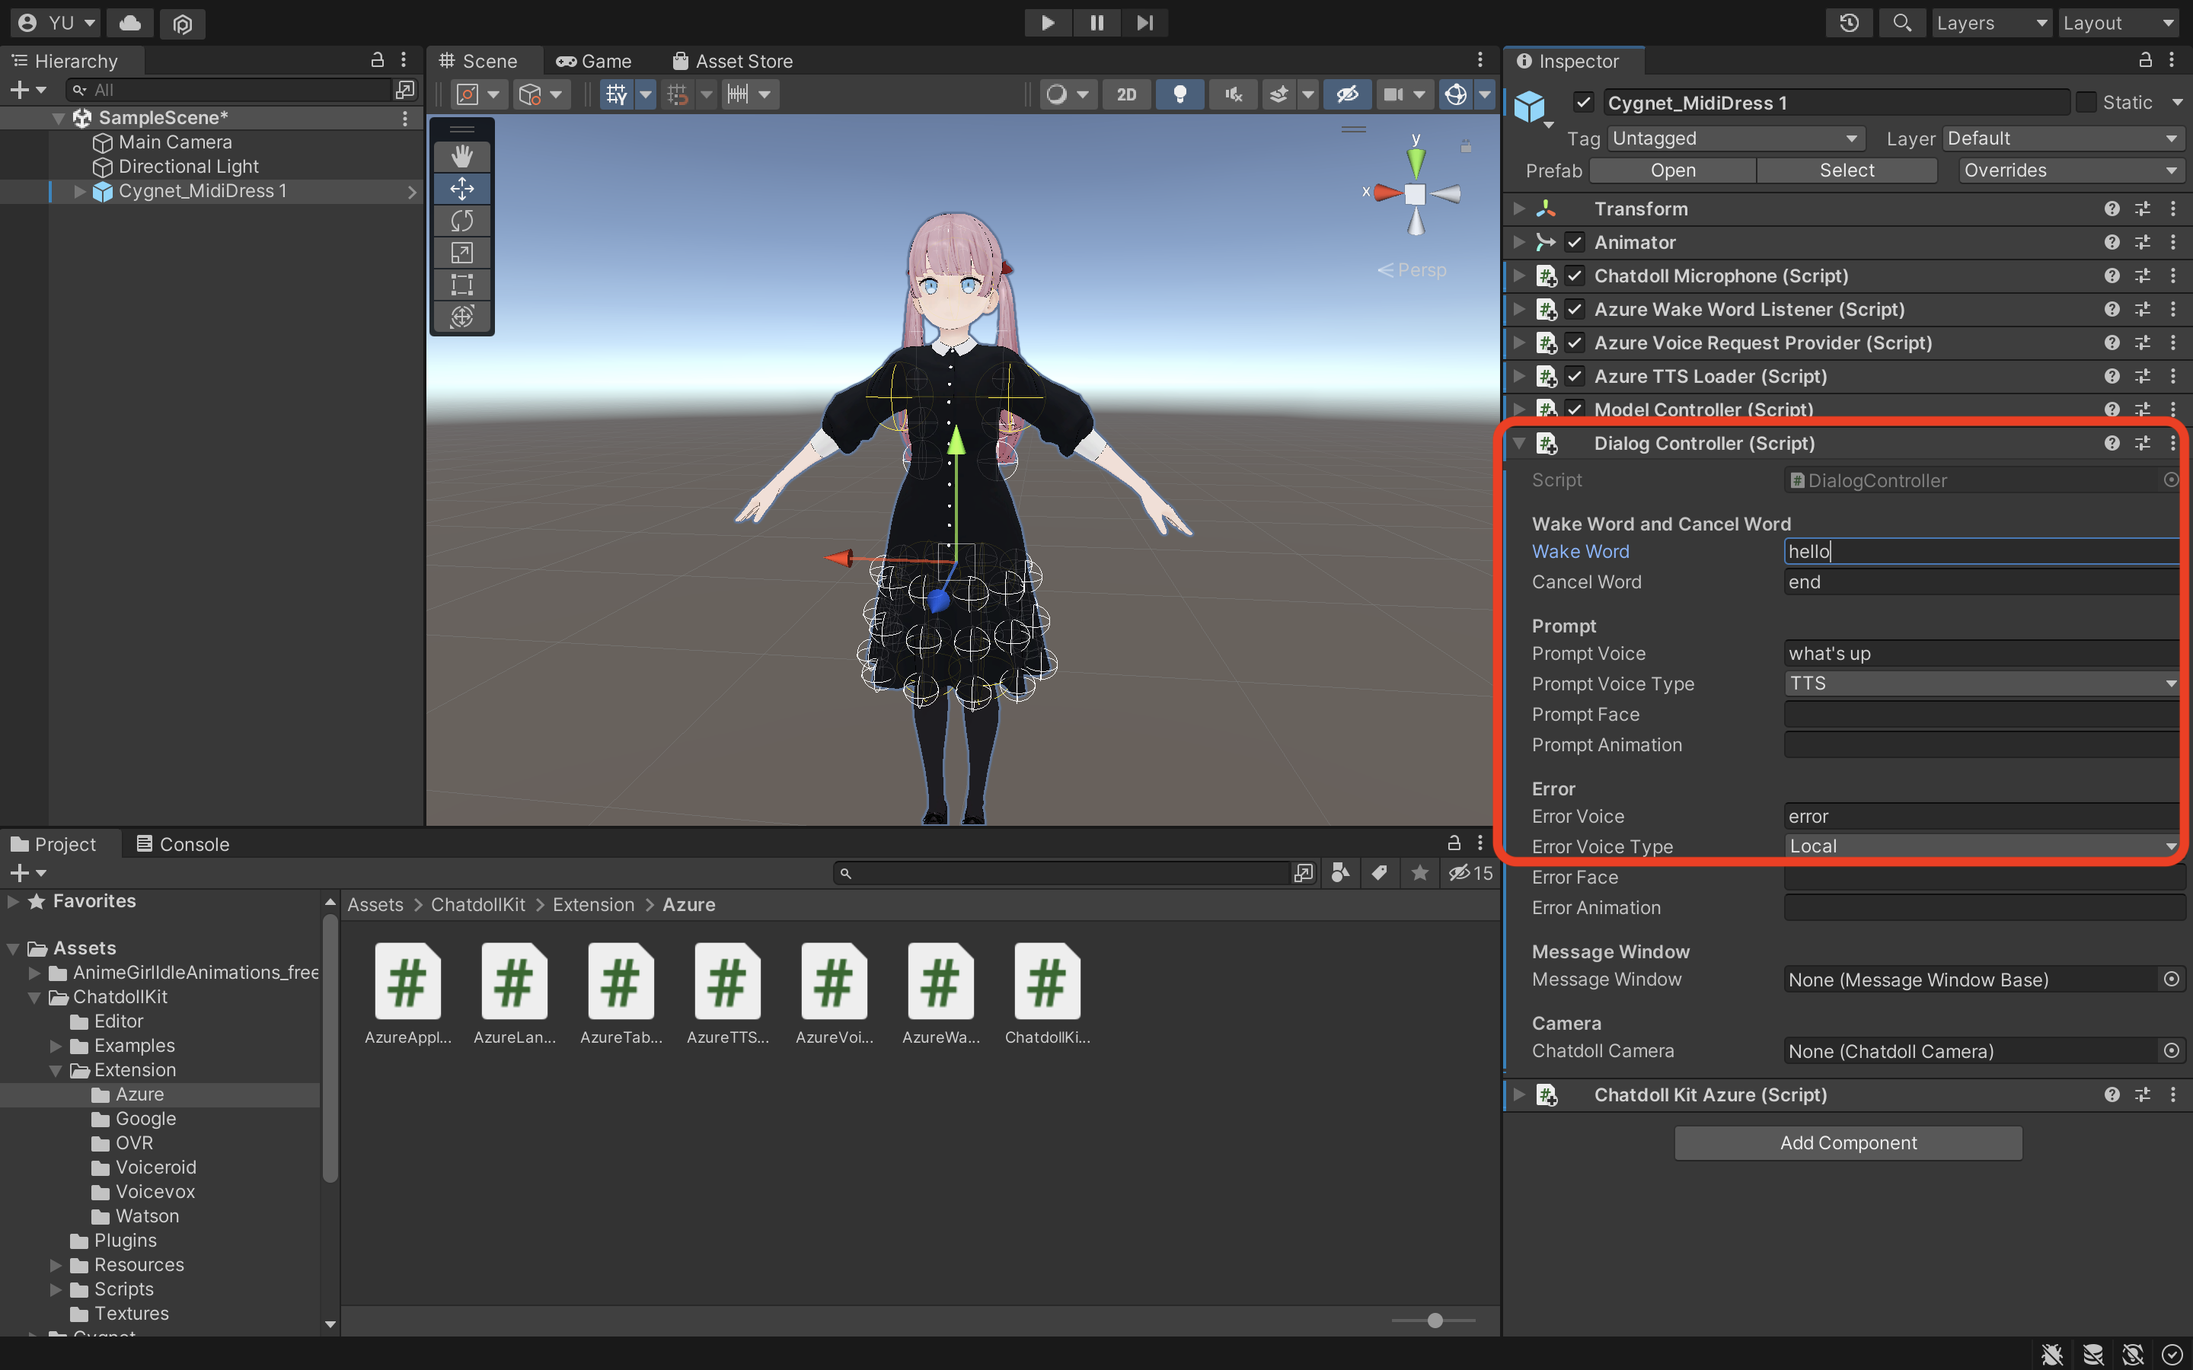
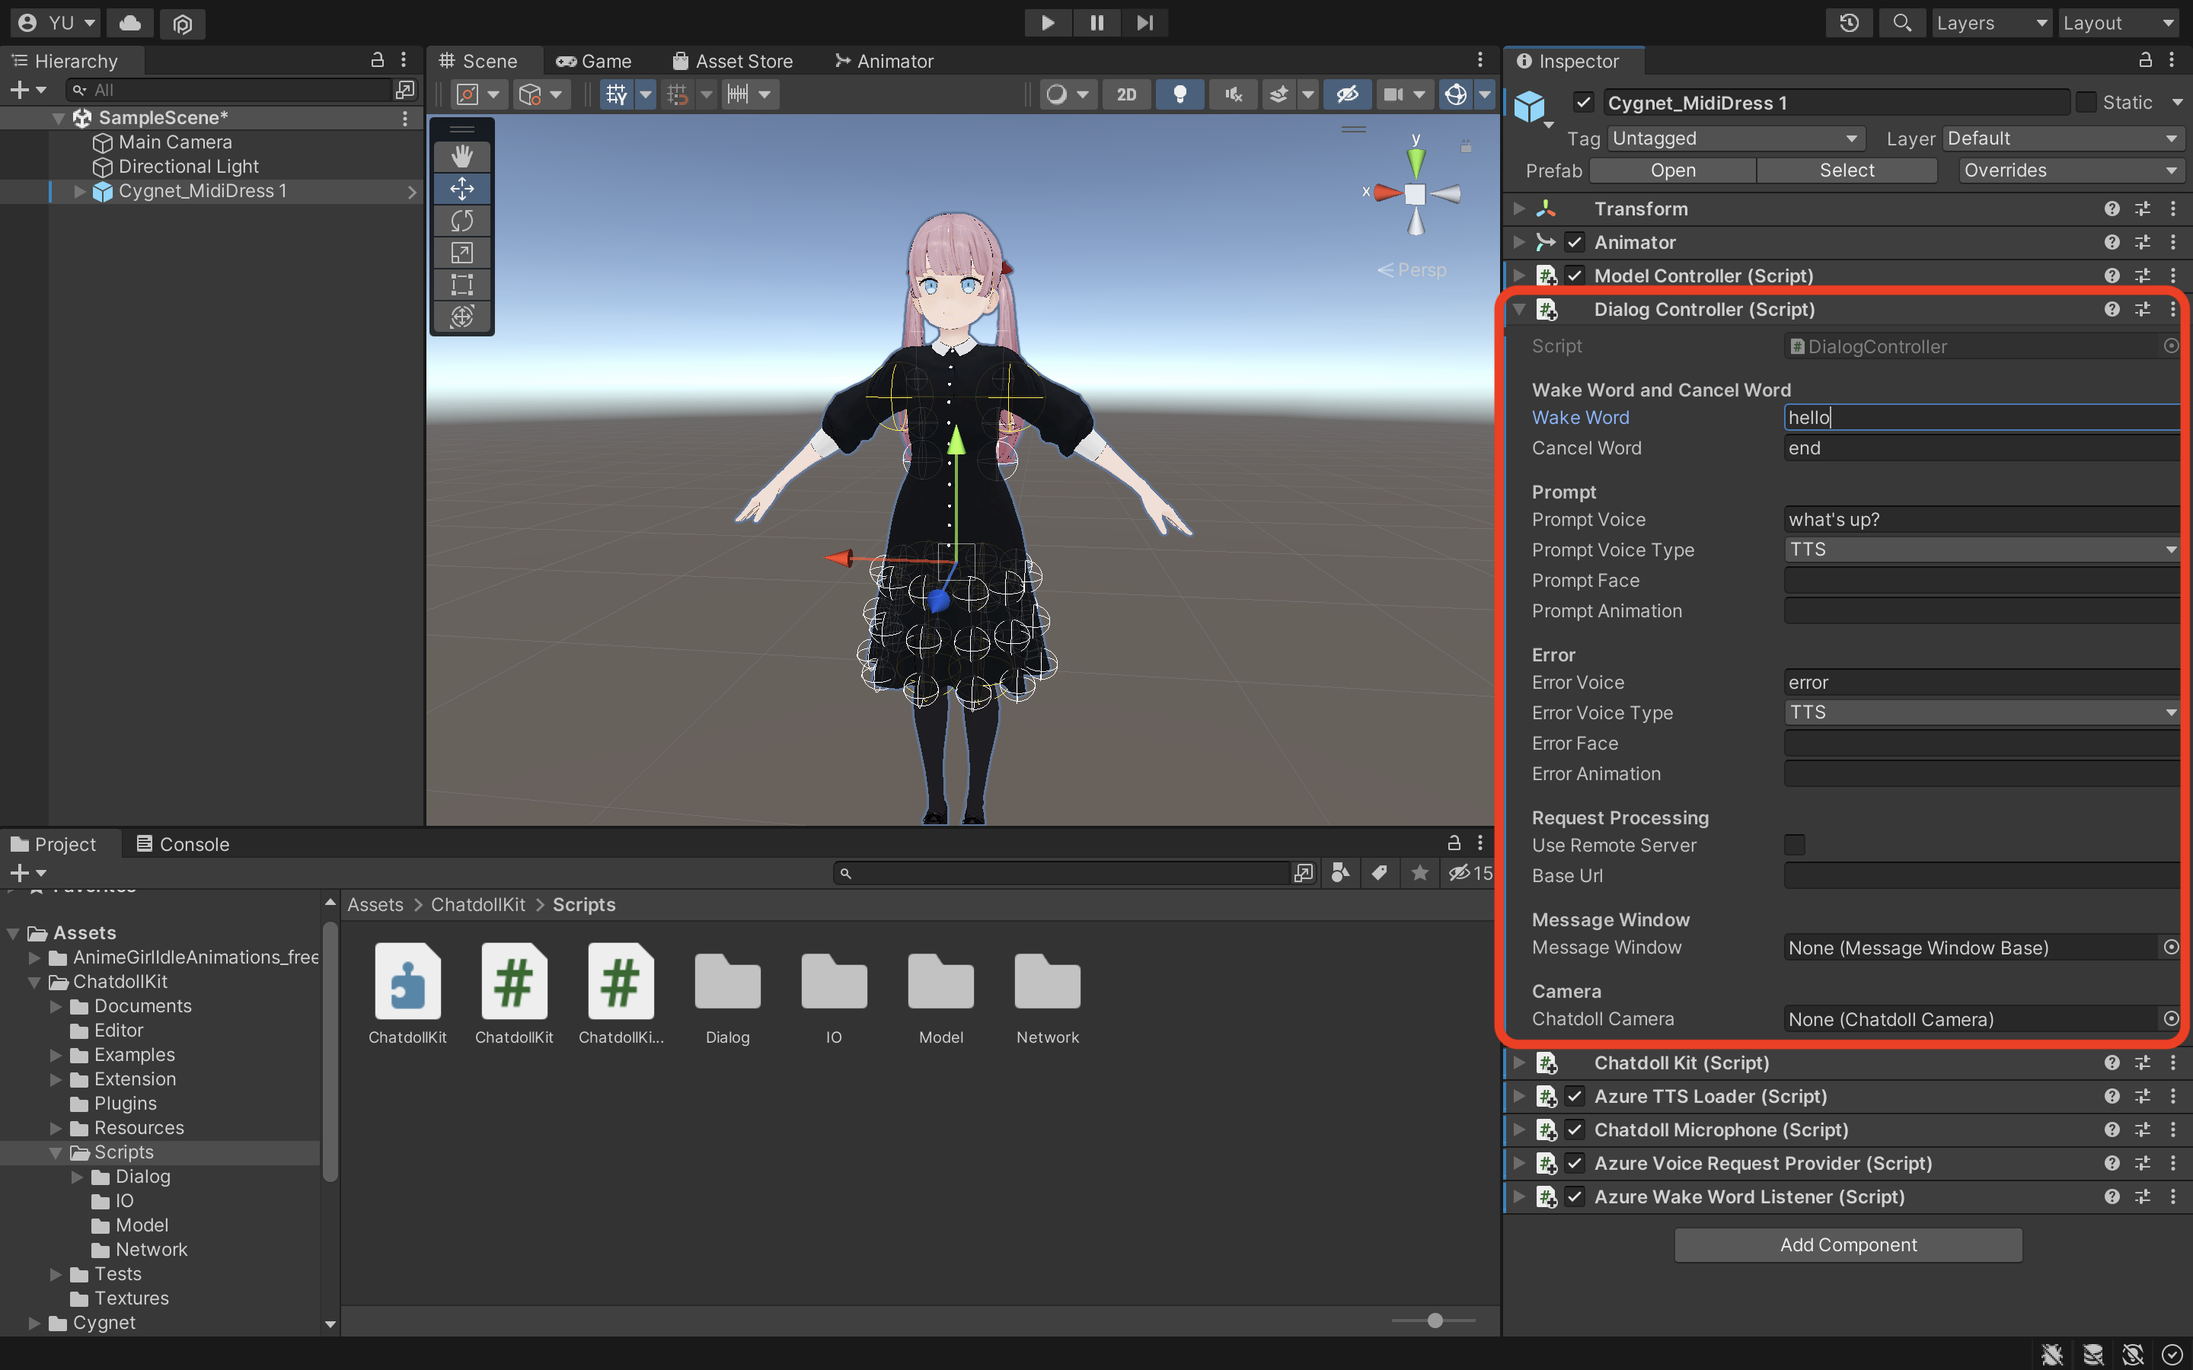
Update documents for v0.5.0

diff --git a/Documents/manual.ja.md b/Documents/manual.ja.md
@@ -1,17 +1,10 @@
 # ChatdollKit マニュアル
 
-version 0.5.0 | 🎏 May 5, 2022 | &copy;2020 uezo | [🇬🇧English version](https://github.com/uezo/ChatdollKit/blob/master/manual.md)
-
+version 0.5.0 | 🎏 May 5, 2022 | &copy;2020 uezo | [🇬🇧English version](./manual.md)
 
 - [セットアップ](#セットアップ)
-    - [パッケージのインポート](#パッケージのインポート)
-    - [リソースの準備](#リソースの準備)
-    - [ChatdollKitのセットアップ](#chatdollkitのセットアップ)
-        - [カスタムアプリケーションの作成](#カスタムアプリケーションの作成)
-        - [アプリケーションの設定](#アプリケーションの設定)
-        - [ModelControllerの設定](#modelcontrollerの設定)
-        - [Animatorの設定](#animatorの設定)
-    - [動作確認](#動作確認)
+    - [ChatdollKitの設定](#chatdollkitの設定)
+    - [DialogControllerの設定](#dialogcontrollerの設定)
 
 - [モデル動作の制御](#モデル動作の制御)
     - [発話](#発話)
@@ -70,72 +63,32 @@ version 0.5.0 | 🎏 May 5, 2022 | &copy;2020 uezo | [🇬🇧English version](h
 
 # セットアップ
 
-Echoアプリケーションを動かすまでの基本的なセットアップ方法は[README](https://github.com/uezo/ChatdollKit/blob/master/README.ja.md)の通りですが、ここではカスタムアプリケーションを作成する前提で説明します。スクリーンショットなどは省略していますので、必要に応じて[README](https://github.com/uezo/ChatdollKit/blob/master/README.ja.md)も合わせて参照ください。
+セットアップの手順は[README](https://github.com/uezo/ChatdollKit/blob/master/README.ja.md)の通りです。Quick startではおうむ返しスキルのみを利用していますが、その他のスキルの作成方法は[スキル](#スキル)のパートを、また、複数スキルの使い分け（「天気」と言ったら天気予報スキル、「電車」といったら乗り換え案内スキル、など）については[対話処理のルーティング](#対話処理のルーティング)のパートを参照してください。
 
-## パッケージのインポート
+以下では、`ChatdollKit`および`DialogController`のインスペクターでの設定項目についてのみ解説します。
 
-- [UniTask](https://github.com/Cysharp/UniTask)(Ver.2.3.1)
-- [Oculus LipSync Unity](https://developer.oculus.com/downloads/package/oculus-lipsync-unity/)(v29)
-- [ChatdollKit.unitypackage](https://github.com/uezo/ChatdollKit/releases)
-- Unity 2019以前の場合のみ [JSON .NET For Unity](https://assetstore.unity.com/packages/tools/input-management/json-net-for-unity-11347) 
+## ChatdollKitの設定
 
-## リソースの準備
+- Application Name: (必須) アプリケーションの名称。コンフィグ情報の保存などに利用されます
+- Speech Service: (必須) 音声認識・読み上げに利用するクラウドサービス。Azure/Google/Watsonのいずれかを選択するか、それ以外を利用または手動でセットアップする場合はOtherを選択してください
+- API Key等: 各クラウドサービス固有の設定項目です
 
-- シーンへの3Dモデルの配置。Shaderの設定や揺れものの設定なども行う
-- アニメーションクリップを入手して`Assets/Animations`フォルダへ配置。オススメは[Anime Girls Idle Animations Free](https://assetstore.unity.com/packages/3d/animations/anime-girl-idle-animations-free-150406)
-- [Azure Speech Services](https://azure.microsoft.com/ja-jp/services/cognitive-services/speech-services/) または [Google Cloud Speech API](https://cloud.google.com/speech-to-text/) のAPIキーの取得
+## DialogControllerの設定
 
-## ChatdollKitのセットアップ
-
-ChatdollKitを3Dモデルに適用するには、以下の通りカスタムアプリケーションを作成・アタッチして、関連するコンポーネントを設定します。
-
-### カスタムアプリケーションの作成
-
-`Assets/Scripts`など任意の場所に以下の内容の`MyChatdollApp.cs`を作成します。名前は何でも構いません。作成したら3Dモデルにアタッチしてください。
-
-```csharp
-using UnityEngine;
-using ChatdollKit.Extension.Azure;  // or ChatdollKit.Extension.Google, ChatdollKit.Extension.Watson
-using ChatdollKit.Examples.Skills;
-
-namespace MyChatdollApp
-{
-    [RequireComponent(typeof(EchoSkill))]
-    public class MyApp : ChatdollKitAzure  // or ChatdollKitGoogle, ChatdollKitWatson
-    {
-
-    }
-}
-```
-
-### アプリケーションの設定
-
-`MyApp`のインスペクターで以下の通り設定します。
-
-- Wake Word: こんにちは
-- Cancel Word: おしまい
-- Prompt Voice: どうしたの？
-- Prompt Voice Type: TTS
-- Api Key: （Azure Speech ServicesまたはGoogle Cloud SpeechのAPIキー）
-- Region: （リージョン。Azureの場合のみ設定）
-- Language: ja-JP
-
-### ModelControllerの設定
-
-インスペクターのコンテキストメニューから`Setup ModelController`を実行します。もし`Blink Blend Shape Name`が空欄のままなときは、3Dモデルの目を閉じるためのシェイプキーの名前を入力してください。まばたきに使用します。
-
-### Animatorの設定
-
-インスペクターのコンテキストメニューから`Setup Animator`を実行します。読み込むアニメーションクリップの格納先を尋ねられますので、アニメーションクリップの配置先を選択してください。
-
-## 動作確認
-
-動作確認用に`ChatdollKit/Examples/Skills`から`EchoSkill`を3Dモデルにアタッチして、Unityエディタの実行ボタンを押下してください。以下の通り対話を進行できるか確認してみましょう。
-
-- ユーザー「こんにちは」
-- App「どうしたの？」
-- ユーザー「これはテストです」
-- App「これはテストです」
+- Wake Word: (必須) リクエストの聞き取り待機状態に移行するための合言葉です。「Hey Siri」や「Okay, Google」に相当するものです。複数のウェイクワードや特定の話題を開始するためのウェイクワードを登録するには、[WakeWord](#ウェイクワード)を参照してください
+- Cancel Word: (必須) 対話を終了するための合言葉です
+- Prompt Voice: (必須) WakeWordを認識し、リクエストを要求するフレーズです
+- Prompt Voice Type: (必須) Local（コンピューター上の音声ファイル）、Web（HTTP(S)で取得可能な音声ファイル）、TTS（テキスト読み上げサービス）が選択できます
+- Prompt Face: プロンプト発話時の表情です
+- Prompt Animation: プロンプト発話時に実行するアニメーションの名称です。AnimatorControllerに登録されたものと一致している必要があります
+- Error Voice: エラーが発生したことを知らせるフレーズです
+- Error Voice Type: Local（コンピューター上の音声ファイル）、Web（HTTP(S)で取得可能な音声ファイル）、TTS（テキスト読み上げサービス）が選択できます
+- Error Face: エラーお知らせ時の表情です
+- Error Animation: エラーお知らせ時に実行するアニメーションの名称です。AnimatorControllerに登録されたものと一致している必要があります
+- Use Remote Server: ローカルではなく遠隔サーバー上に配置したスキルを利用するか否かです
+- Base Url: 遠隔サーバーのURLです
+- Message Window: ユーザーの発言内容を表示するウィンドウです。未指定の場合はデフォルトで`SimpleMessageWindow`が利用されます
+- ChatdollCamera: 写真撮影やQRコードの読み取りに利用するカメラです。未指定の場合はデフォルトで`ChatdollCamera`が利用されます
 
 
 # モデル動作の制御
@@ -844,7 +797,8 @@ $ pip install chatdollkit
 
 ### クライアントの準備
 
-`Dialog/Processor/RemoteRequestProcessor`をアタッチしたら、インスペクター上で前の手順で準備したサーバーのURLを`Base Url`に入力してください。スキルサーバーのサンプルはおうむ返しになります。
+`DialogController`のインスペクター上で`Use Remote Server`にチェックし、先ほどの手順で起動したサーバーのURLを`Base Url`に入力してください。実行するとサーバー側にリクエストが送信され、サーバーから返されたレスポンスが表示されるようになります。
+
 
 ## 形態素解析
 

diff --git a/Documents/manual.md b/Documents/manual.md
@@ -1,16 +1,10 @@
 # ChatdollKit Documentation
 
-version 0.5.0 | 🎏 May 5, 2022 | &copy;2020 uezo | [🇯🇵Japanese version](https://github.com/uezo/ChatdollKit/blob/master/manual.ja.md)
+version 0.5.0 | 🎏 May 5, 2022 | &copy;2020 uezo | [🇯🇵Japanese version](./manual.ja.md)
 
 - [Setup](#Setup)
-    - [Import packages](#Import-packages)
-    - [Prepare resources](#Prepare-resources)
-    - [Setup ChatdollKit](#Setup-ChatdollKit)
-        - [Build custom application](#Build-custom-application)
-        - [Configure application](#Configure-application)
-        - [Setup ModelController](#Setup-ModelController)
-        - [Configure Animator](#Configure-Animator)
-    - [Run echo](#Run-echo)
+    - [ChatdollKit configurations](#chatdollkit-configurations)
+    - [DialogController configurations](#dialogcontroller-configurations)
 
 - [Control 3D model](#Control-3D-model)
     - [Speech](#Speech)
@@ -69,72 +63,30 @@ version 0.5.0 | 🎏 May 5, 2022 | &copy;2020 uezo | [🇯🇵Japanese version](
 
 # Setup
 
-In this section you can get how to build a Chatdoll with your own custom skill. See [README](https://github.com/uezo/ChatdollKit/blob/master/README.md) to get started with Echo skill.
+See [README](https://github.com/uezo/ChatdollKit/blob/master/README.ja.md) to learn how to setup. To learn to make your own custom skills see [Skill](#Skill) , or, to learn to switch skills by request message see [Routing](#Routing).
 
-## Import packages
+## ChatdollKit configurations
 
-- [UniTask](https://github.com/Cysharp/UniTask)(Ver.2.3.1)
-- [Oculus LipSync Unity](https://developer.oculus.com/downloads/package/oculus-lipsync-unity/)(v29)
-- [ChatdollKit.unitypackage](https://github.com/uezo/ChatdollKit/releases)
-- Only for Unity 2019 or ealier: [JSON .NET For Unity](https://assetstore.unity.com/packages/tools/input-management/json-net-for-unity-11347) 
+- Application Name: (Required) Name of application
+- Speech Service: (Required) Cloud service for speech recognition and text-to-speech. You can select Azure/Google/Watson or Other to setup by yourself manually.
+- API Key, etc: Service specific configurations
 
-## Prepare resources
+## DialogController configurations
 
-- Add 3D model to the scene and configure components like DynamicBone and shader
-- Put animation clips to `Assets/Animations`. [Anime Girls Idle Animations Free](https://assetstore.unity.com/packages/3d/animations/anime-girl-idle-animations-free-150406) is a nice asset.
-- Get API key for Speech service at [Azure Speech Services](https://azure.microsoft.com/ja-jp/services/cognitive-services/speech-services/) or [Google Cloud Speech API](https://cloud.google.com/speech-to-text/)
-
-## Setup ChatdollKit
-
-Make and attach custom application to your 3D model and configure related components.
-
-### Make empty custom application
-
-Make `Assets/Scripts/MyChatdollApp.cs` like below and attach it to your 3D model.
-
-```csharp
-using UnityEngine;
-using ChatdollKit.Extension.Azure;  // or ChatdollKit.Extension.Google
-using ChatdollKit.Examples.Skills;
-
-namespace MyChatdollApp
-{
-    [RequireComponent(typeof(EchoSkill))]
-    public class MyApp : ChatdollKitAzure  // or ChatdollKitGoogle, ChatdollKitWatson
-    {
-
-    }
-}
-```
-
-### Configure application
-
-Configure like below on inspentor of `MyApp`.
-
-- Wake Word: Hello
-- Cancel Word: Stop
-- Prompt Voice: May I help you?
-- Prompt Voice Type: TTS
-- Api Key: [API key for Azure Speech Services or Google Cloud Speech]
-- Region: [Region. Azure only.]
-- Language: en-US
-
-### Setup ModelController
-
-Execute `Setup ModelController` in the context menu of ModelController. If nothing is set to `Blink Blend Shape Name` yet, set ShapeKey for blinking manually.
-
-### Configure Animator
-
-Execute `Setup Animator` in the cotext menu of ModelController. Select the directory that contains animation clips in the dialog.
-
-## Run echo
-
-Press Play button on Unity Editor. Confirm conversation like below.
-
-- You "Hello"
-- Chatdoll "May I help you?"
-- You "This is a test"
-- Chatdoll "This is a test"
+- Wake Word: (Required) The word to make app waiting for request. This is like "Hey Siri" or "Okay, Google" for AI smart speakers. See also see [WakeWord](#wake-word) if you want to configure multiple wakewords or wakeword that triggers a topic.
+- Cancel Word: (Required) The word to stop the conversation.
+- Prompt Voice: (Required) Prompt message to require the request message from user.
+- Prompt Voice Type: (Required) Local (File on local computer) / Web (File on Web) / TTS (Text-to-Speech service)
+- Prompt Face: Face expression on prompt
+- Prompt Animation: Animation on prompt. The name of status in AnimatorController.
+- Error Voice: Error message
+- Error Voice Type: Local (File on local computer) / Web (File on Web) / TTS (Text-to-Speech service)
+- Error Face: Face expression on error
+- Error Animation: Animation on error. The name of status in AnimatorController.
+- Use Remote Server: Use skills on remote server instead of local skills.
+- Base Url: Url of skill server
+- Message Window: Window to show the message from user. Default is `SimpleMessageWindow`.
+- ChatdollCamera: Camera to capture photo or QR Code. Default is `ChatdollCamera`.
 
 
 # Control 3D model
@@ -829,7 +781,7 @@ $ pip install chatdollkit
 
 ### Setup client (Unity)
 
-Attach `Dialog/Processor/RemoteRequestProcessor` and set `Base Url` of the server that you created on the previous step. Make sure that the server is already running then press Play button to run the application.
+Set `true` to `Use Remote Server` and set the url of the server to `Base Url` on the inspector of `DialogController`. Make sure that the server is already running then press Play button to run the application.
 
 ## Morphological Analysis (Japanese only)
 

diff --git a/README.md b/README.md
@@ -53,12 +53,11 @@ In this README, I use [Anime Girls Idle Animations Free](https://assetstore.unit
 
 ## 🍣 ChatdollKit configuration
 
-Add `ChatdollKitAzure`, `ChatdollKitGoogle` or `ChatdollKitWatson` from `ChatdollKit/Extensions` to the 3D model. Required components will also be added automatically.
+Add `ChatdollKit/Scripts/ChatdollKit` to the 3D model. Required components will also be added automatically.
 
-Then, set API key and some properties like Region and BaseUrl on inspector of ChatdollKit.
+Then, select the speech service (Azure/Google/Watson) you use and set API key and some properties like Region and BaseUrl on inspector of ChatdollKit.
 
 <img src="Documents/Images/02_01_chatdollkit.png" width="640">
-
 
 ### DialogController
 
